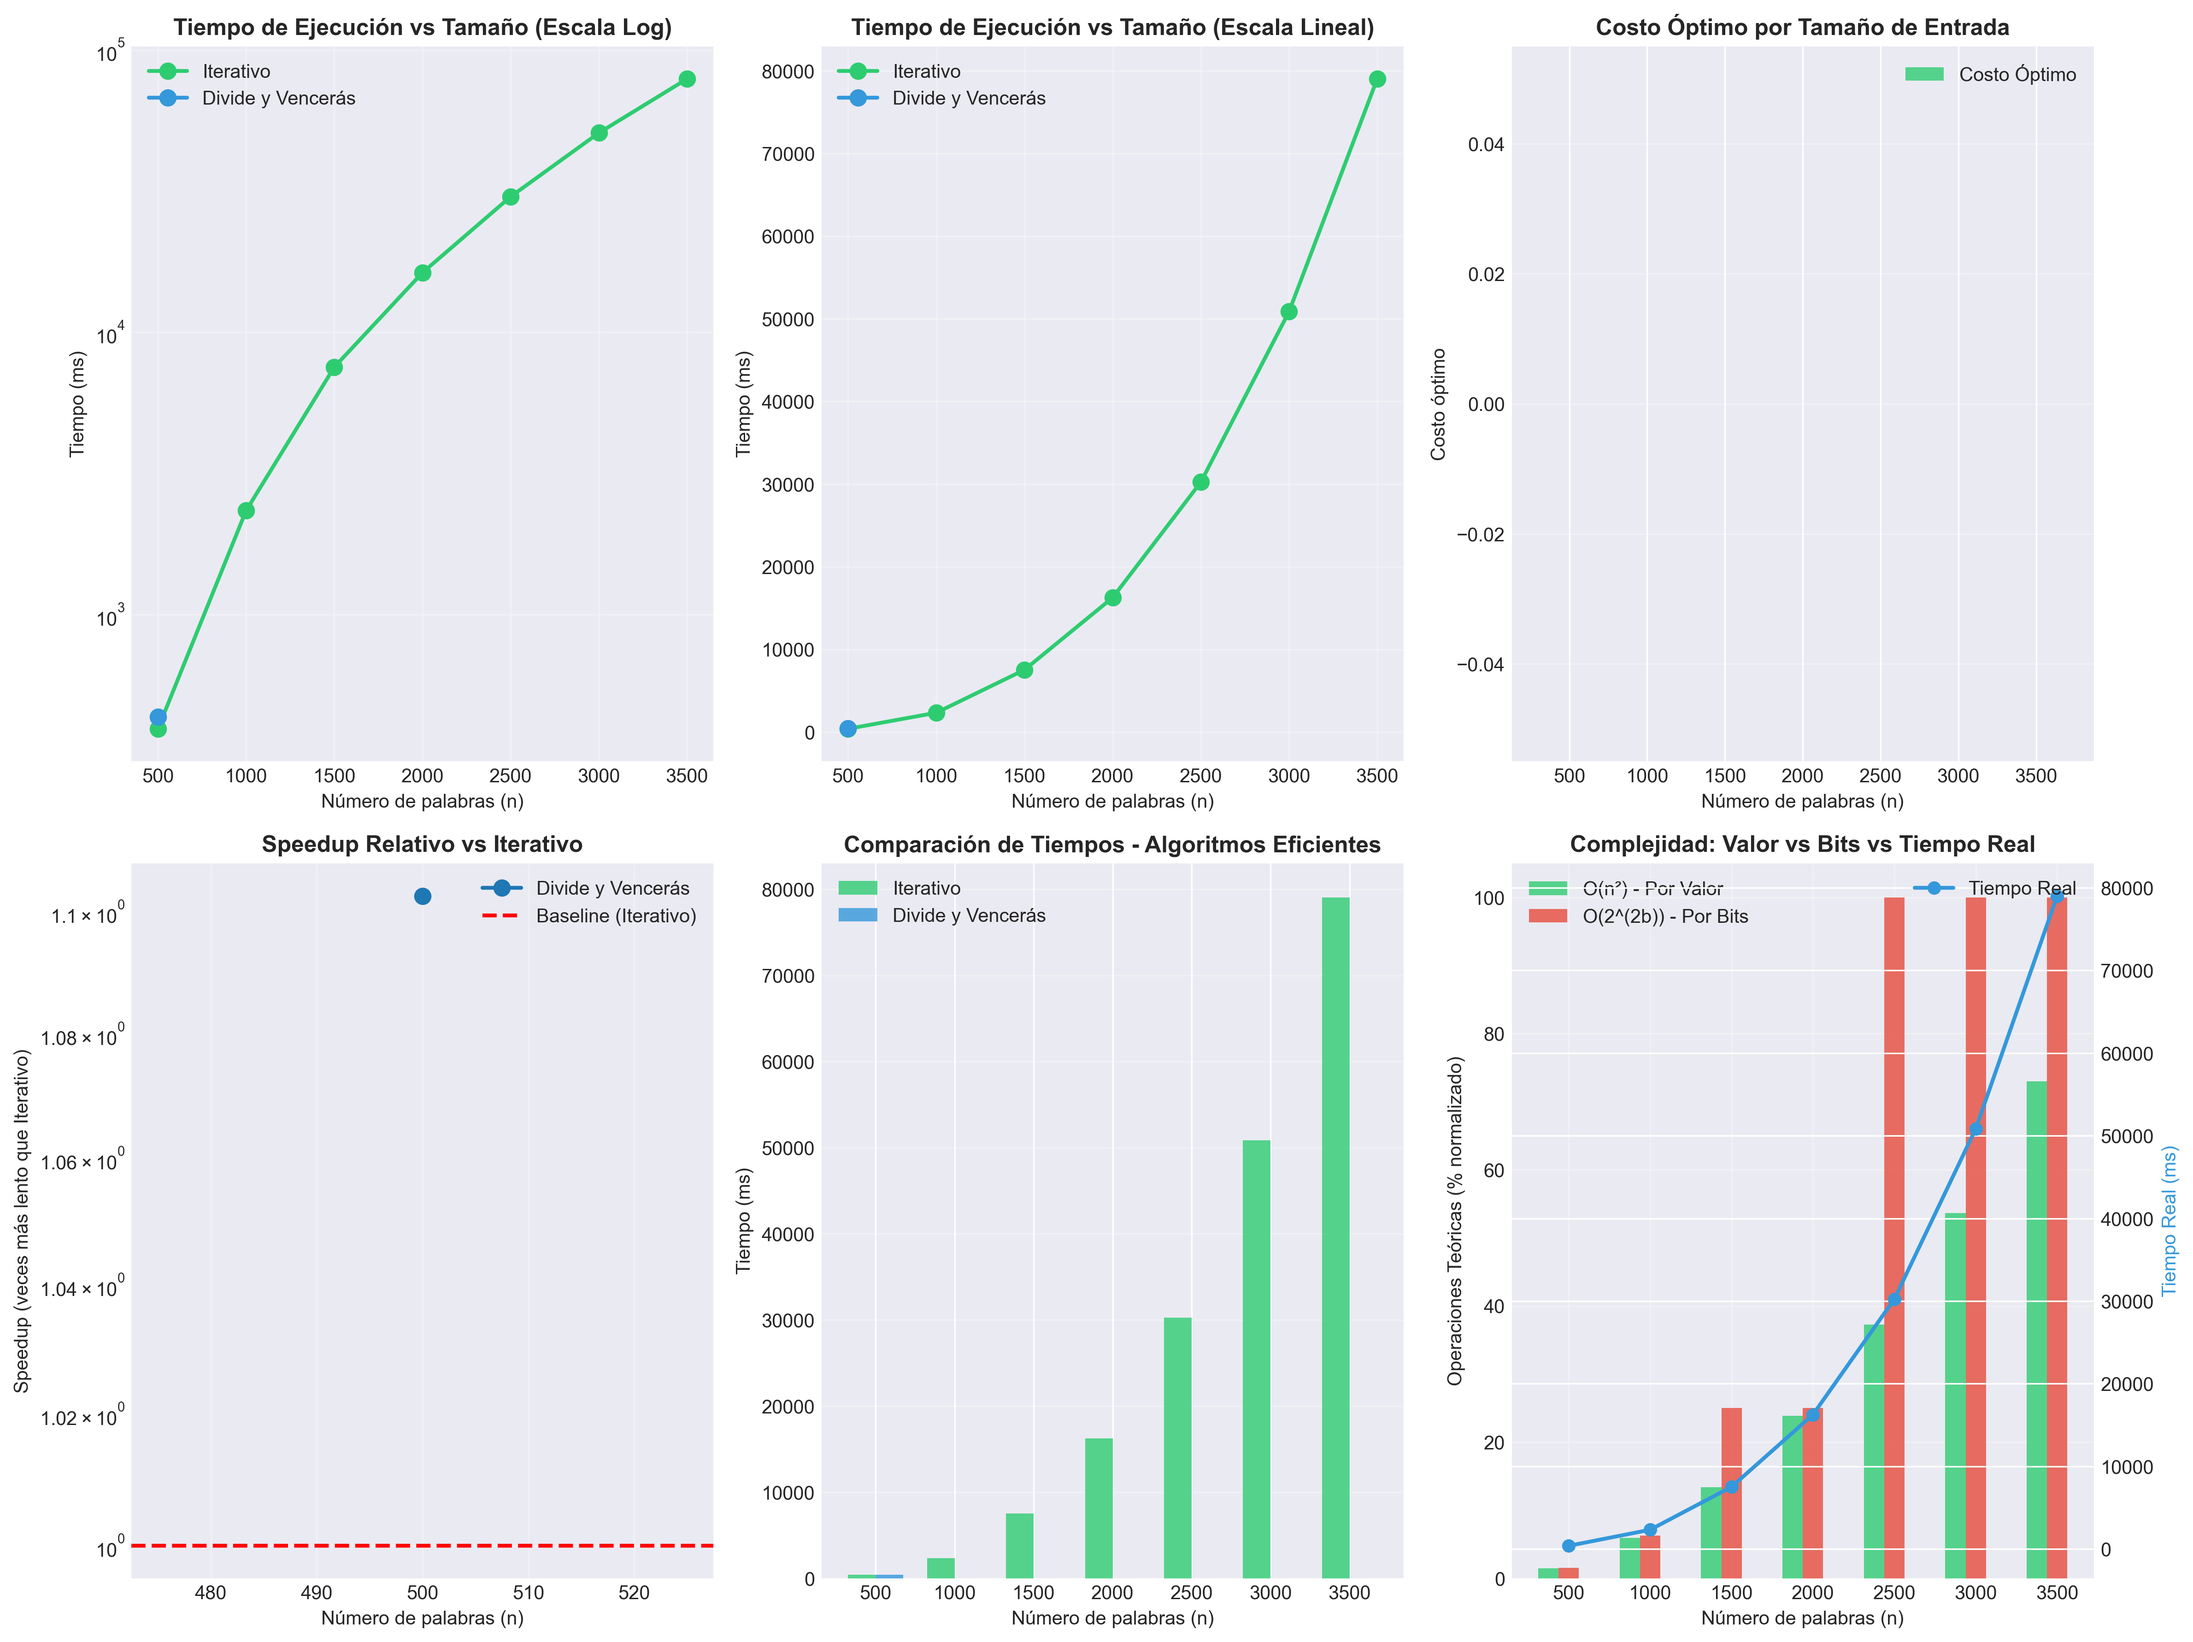
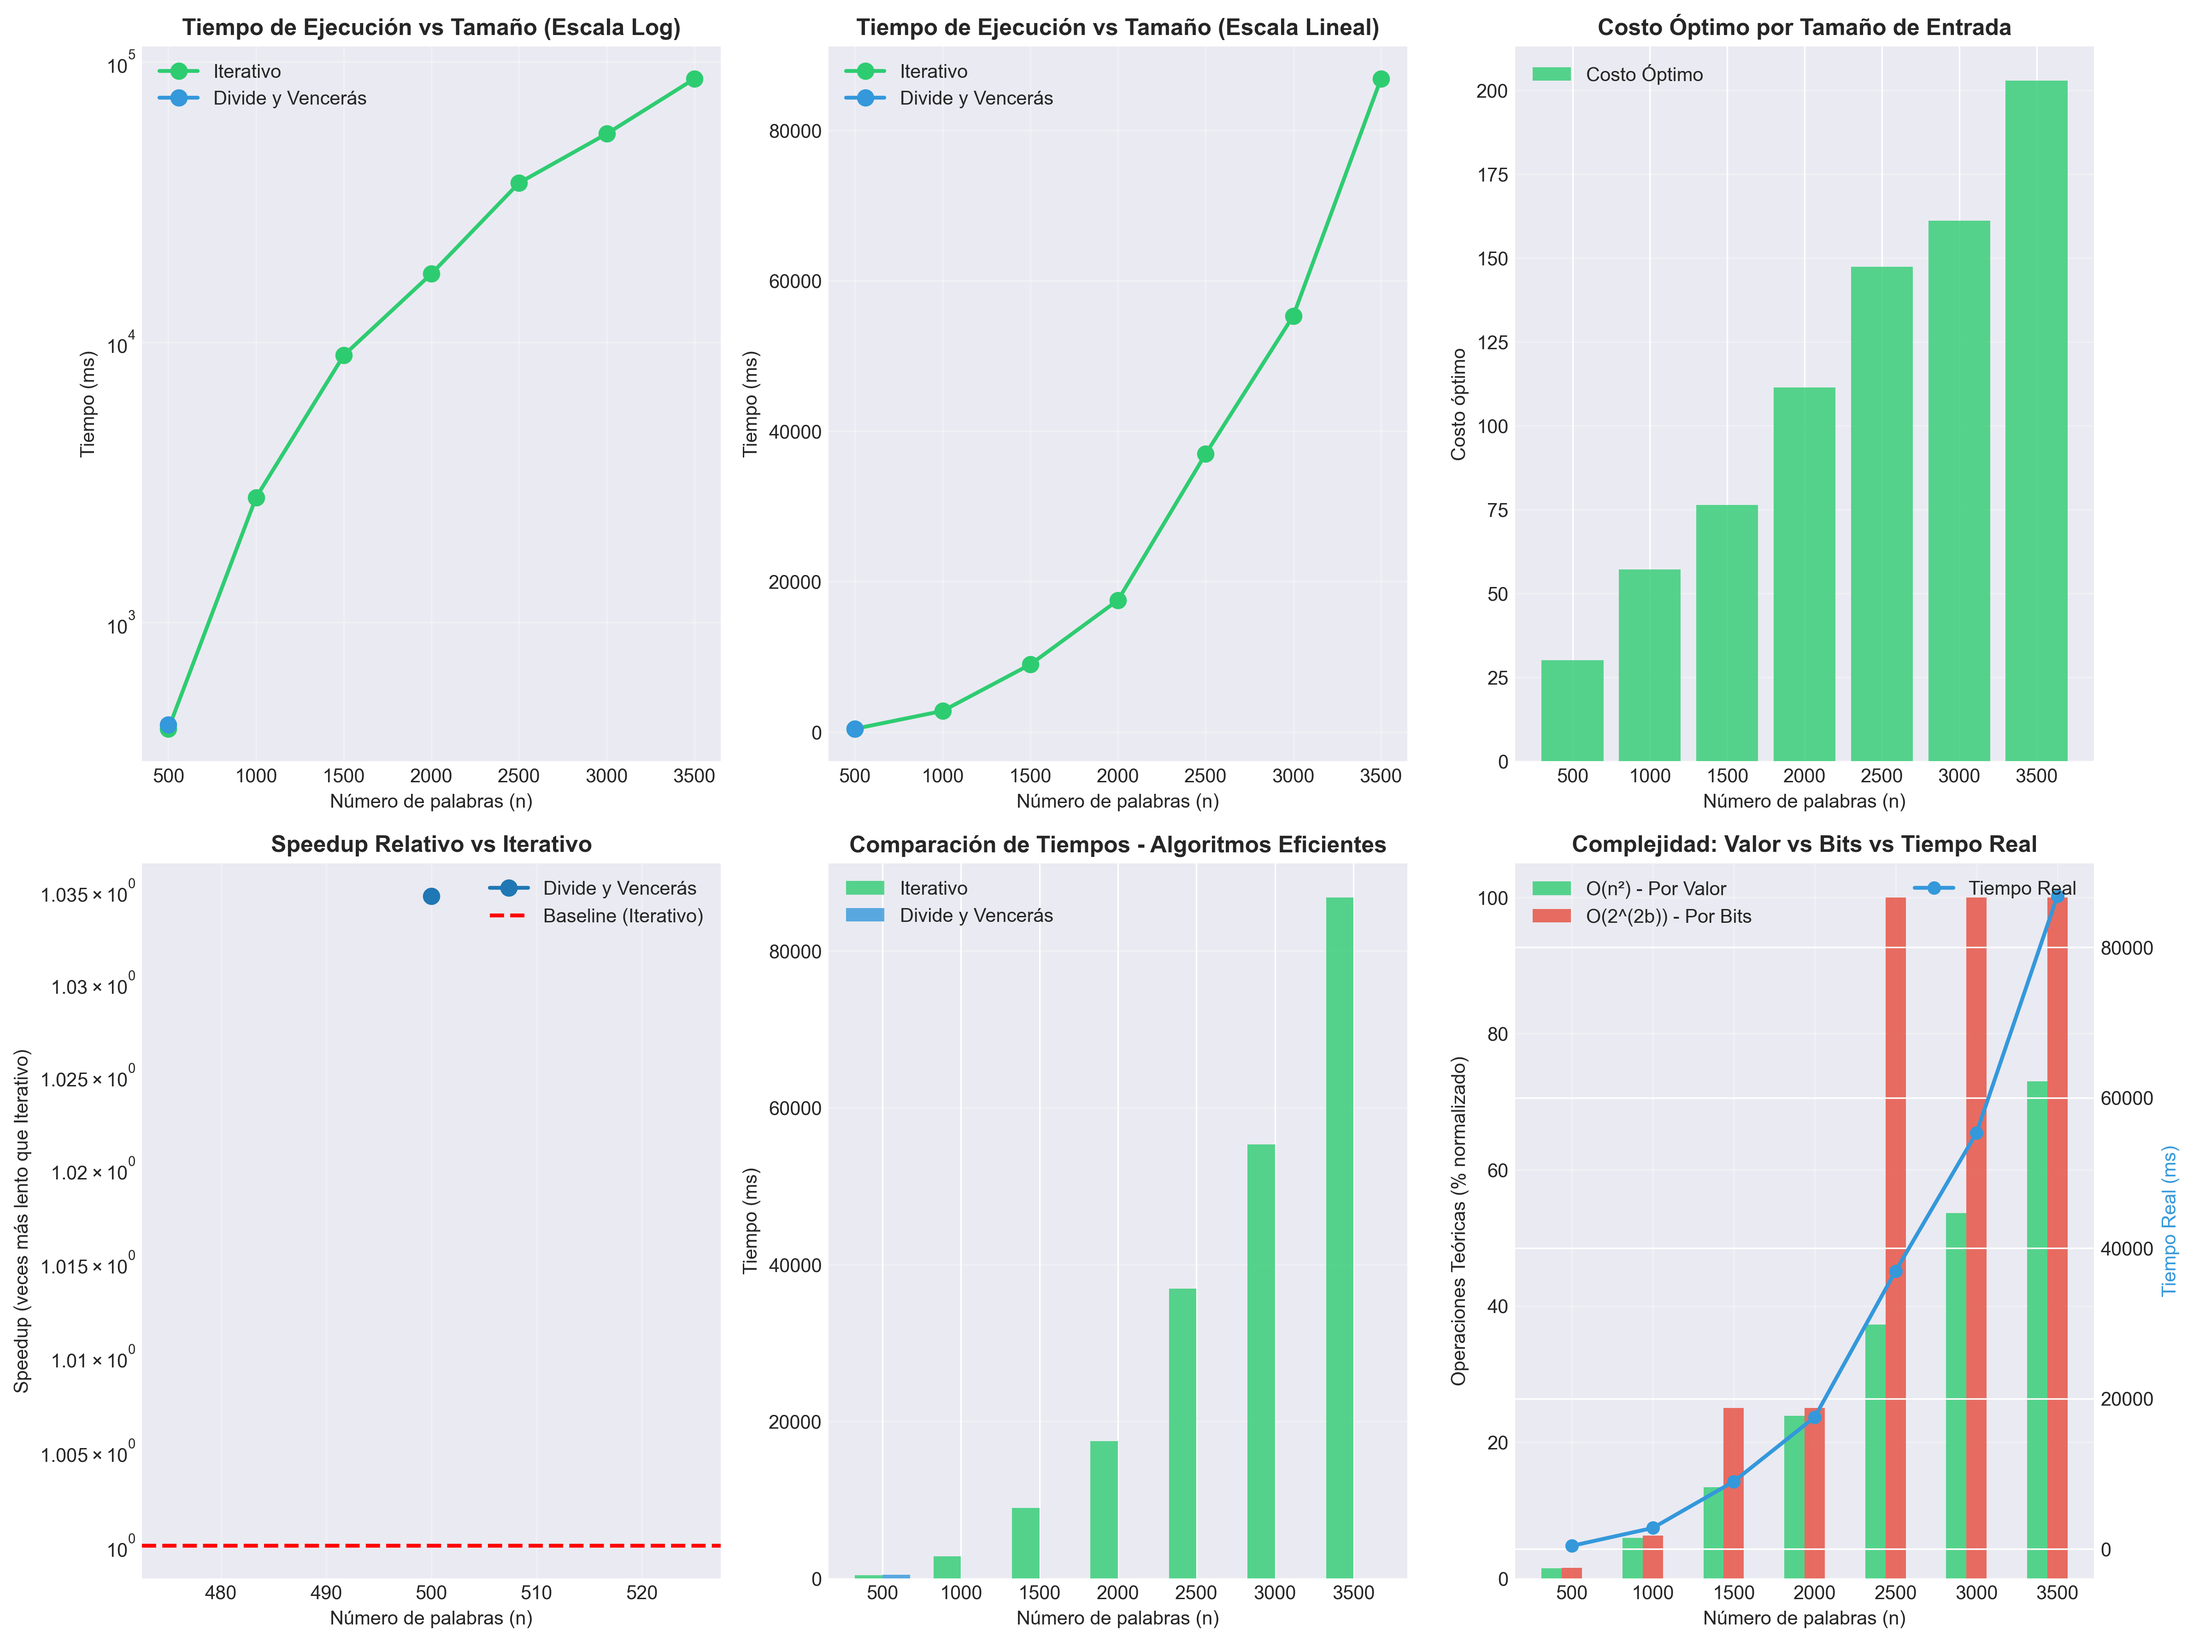
Version Final

diff --git a/main.py b/main.py
@@ -21,6 +21,7 @@ class MenuPrincipal:
             '5': ('Ver documentación del proyecto', self.ver_documentacion),
             '6': ('Ejecutar TODO (casos + análisis + tests)', self.ejecutar_todo),
             '7': ('Ejemplo personalizado', self.ejemplo_personalizado),
+            '8': ('Stress test con entradas grandes', self.ejecutar_casos_grandes),
             '0': ('Salir', None)
         }
     
@@ -436,6 +437,116 @@ Para más información, consulta README.md
         
         from division_parrafos import mostrar_solucion
         mostrar_solucion(longitudes, cortes, L, b)
+
+    def ejecutar_casos_grandes(self):
+        """
+        Ejecuta ejemplos con entradas muy grandes para testear el comportamiento
+        de las implementaciones (stress test) y genera gráficas de n vs tiempo.
+        """
+        print("\nSTRESS TEST CON ENTRADAS GRANDES")
+        print("=" * 80)
+
+        from division_parrafos import DivisionParrafos, ejecutar_y_medir
+        from analisis_graficas import AnalizadorRendimiento
+        import random
+
+        # Tamaños grandes: de 500 en 500 hasta 3500
+        tamanos = list(range(500, 3501, 500))  # [500, 1000, ..., 5000]
+        L = 60    # longitud de línea fija para las pruebas
+        b = 1.5   # amplitud ideal de espacios
+
+        resultados_stress = []
+
+        for n in tamanos:
+            print(f"\nInstancia con n = {n} palabras")
+            print("-" * 80)
+            # Longitudes aleatorias de palabras entre 2 y 10 caracteres
+            palabras = [random.randint(2, 10) for _ in range(n)]
+            print(f"Primeras 10 longitudes: {palabras[:10]} ...")
+            print(f"L = {L}, b = {b}")
+
+            dp = DivisionParrafos(palabras, L, b)
+
+            resultados_alg = []
+            resultado_n = {
+                'n': n,
+                'algoritmos': {}
+            }
+
+            # Iterativo
+            res_iter = ejecutar_y_medir(dp.resolver_iterativo, f"Iterativo (DP)      n={n}")
+            resultados_alg.append(res_iter)
+            if res_iter['exito'] and res_iter['costo'] is not None:
+                resultado_n['algoritmos']['Iterativo'] = {
+                    'tiempo': res_iter['tiempo'],
+                    'costo': res_iter['costo']
+                }
+
+            # Divide y Vencerás
+            res_dyv = ejecutar_y_medir(dp.resolver_divide_venceras, f"Divide y Vencerás  n={n}")
+            resultados_alg.append(res_dyv)
+            if res_dyv['exito'] and res_dyv['costo'] is not None:
+                resultado_n['algoritmos']['Divide y Vencerás'] = {
+                    'tiempo': res_dyv['tiempo'],
+                    'costo': res_dyv['costo']
+                }
+
+            # Opcional: también recursivo y exhaustivo si el usuario quiere
+            resp = input(
+                "\n¿Intentar también Recursivo Puro y Exhaustivo para este tamaño? "
+                "(puede tardar MUCHÍSIMO o no terminar) [s/N]: "
+            ).strip().lower()
+
+            if resp == "s":
+                res_rec = ejecutar_y_medir(dp.resolver_recursivo, f"Recursivo Puro      n={n}")
+                resultados_alg.append(res_rec)
+                if res_rec['exito'] and res_rec['costo'] is not None:
+                    resultado_n['algoritmos']['Recursivo'] = {
+                        'tiempo': res_rec['tiempo'],
+                        'costo': res_rec['costo']
+                    }
+
+                res_exh = ejecutar_y_medir(dp.resolver_exhaustivo, f"Exhaustivo          n={n}")
+                resultados_alg.append(res_exh)
+                if res_exh['exito'] and res_exh['costo'] is not None:
+                    resultado_n['algoritmos']['Exhaustivo'] = {
+                        'tiempo': res_exh['tiempo'],
+                        'costo': res_exh['costo']
+                    }
+
+            print("\nResumen de resultados (n = {}):".format(n))
+            print("-" * 80)
+            for res in resultados_alg:
+                if res["exito"]:
+                    costo_str = f"{res['costo']:.4f}" if res["costo"] is not None else "N/A"
+                    print(
+                        f"{res['nombre']:30} | "
+                        f"Costo: {costo_str:>10} | "
+                        f"Tiempo: {res['tiempo']*1000:10.4f} ms"
+                    )
+                else:
+                    print(f"{res['nombre']:30} | ERROR: {res['error']}")
+
+            resultados_stress.append(resultado_n)
+
+        print("\nStress test finalizado.")
+
+        # ----- Generar gráficas y tabla para estos resultados grandes -----
+        print("\n📊 Generando análisis y gráficas del stress test (n grandes)...")
+        analizador = AnalizadorRendimiento()
+        analizador.resultados = resultados_stress
+
+        # Tabla comparativa y JSON específico del stress test
+        analizador.generar_tabla_comparativa()
+        analizador.guardar_resultados_json('resultados_benchmark_stress.json')
+
+        # Gráficas específicas del stress test
+        analizador.generar_graficas(
+            guardar=True,
+            filename='analisis_division_parrafos_stress.png'
+        )
+
+        self.pausar()
     
     def pausar(self):
         """Pausa la ejecución esperando input del usuario"""
